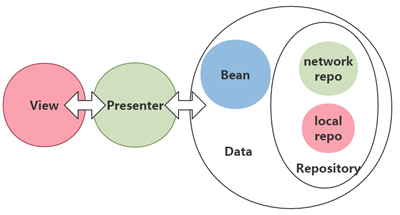
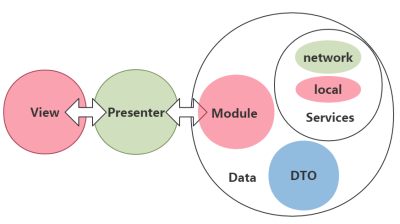
modified packages' name & updated readme :octocat:

diff --git a/app/src/main/java/cn/nekocode/baseframework/data/module/WeatherModule.kt b/app/src/main/java/cn/nekocode/baseframework/data/module/WeatherModule.kt
@@ -1,8 +1,8 @@
-package cn.nekocode.baseframework.data.modules
+package cn.nekocode.baseframework.data.module
 
 import cn.nekocode.baseframework.data.dto.Weather
-import cn.nekocode.baseframework.data.services.Local
-import cn.nekocode.baseframework.data.services.Net
+import cn.nekocode.baseframework.data.service.Local
+import cn.nekocode.baseframework.data.service.Net
 import com.google.gson.annotations.SerializedName
 import rx.Notification
 import rx.Observable

diff --git a/app/src/main/java/cn/nekocode/baseframework/presenter/WeatherPresenter.kt b/app/src/main/java/cn/nekocode/baseframework/presenter/WeatherPresenter.kt
@@ -1,8 +1,8 @@
 package cn.nekocode.baseframework.presenter
 
 import cn.nekocode.baseframework.data.dto.Weather
-import cn.nekocode.baseframework.data.modules.WeatherModule
-import cn.nekocode.baseframework.data.services.Net
+import cn.nekocode.baseframework.data.module.WeatherModule
+import cn.nekocode.baseframework.data.service.Net
 import cn.nekocode.baseframework.presenter.helper.Presenter
 import cn.nekocode.baseframework.utils.onUI
 

diff --git a/app/src/main/java/cn/nekocode/baseframework/data/service/Net.kt b/app/src/main/java/cn/nekocode/baseframework/data/service/Net.kt
@@ -1,8 +1,8 @@
-package cn.nekocode.baseframework.data.services
+package cn.nekocode.baseframework.data.service
 
 import cn.nekocode.baseframework.App
 import cn.nekocode.baseframework.Config
-import cn.nekocode.baseframework.data.modules.WeatherModule
+import cn.nekocode.baseframework.data.module.WeatherModule
 import com.google.gson.Gson
 import com.google.gson.GsonBuilder
 import okhttp3.Cache

diff --git a/app/src/main/java/cn/nekocode/baseframework/App.kt b/app/src/main/java/cn/nekocode/baseframework/App.kt
@@ -1,7 +1,7 @@
 package cn.nekocode.baseframework
 
 import android.app.Application
-import cn.nekocode.baseframework.data.services.Local
+import cn.nekocode.baseframework.data.service.Local
 import cn.nekocode.baseframework.utils.FileUtils
 
 /**

diff --git a/app/src/main/java/cn/nekocode/baseframework/data/service/Local.kt b/app/src/main/java/cn/nekocode/baseframework/data/service/Local.kt
@@ -1,4 +1,4 @@
-package cn.nekocode.baseframework.data.services
+package cn.nekocode.baseframework.data.service
 
 import android.content.Context
 import com.orhanobut.hawk.Hawk

diff --git a/README.md b/README.md
@@ -12,8 +12,11 @@
 ```
 com.nekocode.baseframework
 ├─ data
-│  ├─ net
-│  └─ local
+│  ├─ dto
+│  ├─ module
+│  └─ service
+│      ├─ Local.kt
+│      └─ Net.kt
 │ 
 ├─ presenter
 │ 
@@ -30,20 +33,20 @@ com.nekocode.baseframework
 ```
 
 ### Layer
-- **Data Layer：**非传统意义的 **Model** 层，包含 `bean` 和 `repo`。其中 repo 包含 `net repo` 和 `local repo` 等仓库，用于从不同途径获取数据。
+- **Data Layer：**非传统意义的 **Model** 层，包含 `dto`（Data Transfer Object）、`service` 和 `module`。其中 service 包含 `Net` 和 `Local` 等不同服务，用于从不同途径获取数据。module 负责处理业务逻辑，并通过 **dto 或基本类型** 与 Presenter 层进行交互。
 - **View Layer：**视图层，包括各种 `activity`，`adapter`，`fragment`，`view`。只关注与用户交互，以及视图操作（动画、界面输出、更新等）。
-- **Presenter Layer：**程序逻辑层。将逻辑从 Activity、Fragment 中剥离并抽象成 `Presenter `。负责**「View 与 Model 层之间的控制与交互」**。
+- **Presenter Layer：**控制逻辑层。是**「Model 与 View 层中间的交互控制层」**。
 
 
 
 ### Kotlin
-- **kotlin version: `1.0.0-beta-3595`**
+- **kotlin version: `1.0.0-beta-4584`**
 
 
 ### Libraries
 - anko: **`0.7.2`**
 - rxkotlin: **`0.30.1`**
-- retrofit: **`2.0.0-beta1`**
+- retrofit: **`2.0.0-beta3`**
 - picasso: **`2.5.2`**
 - hawk: **`1.20`**
 
